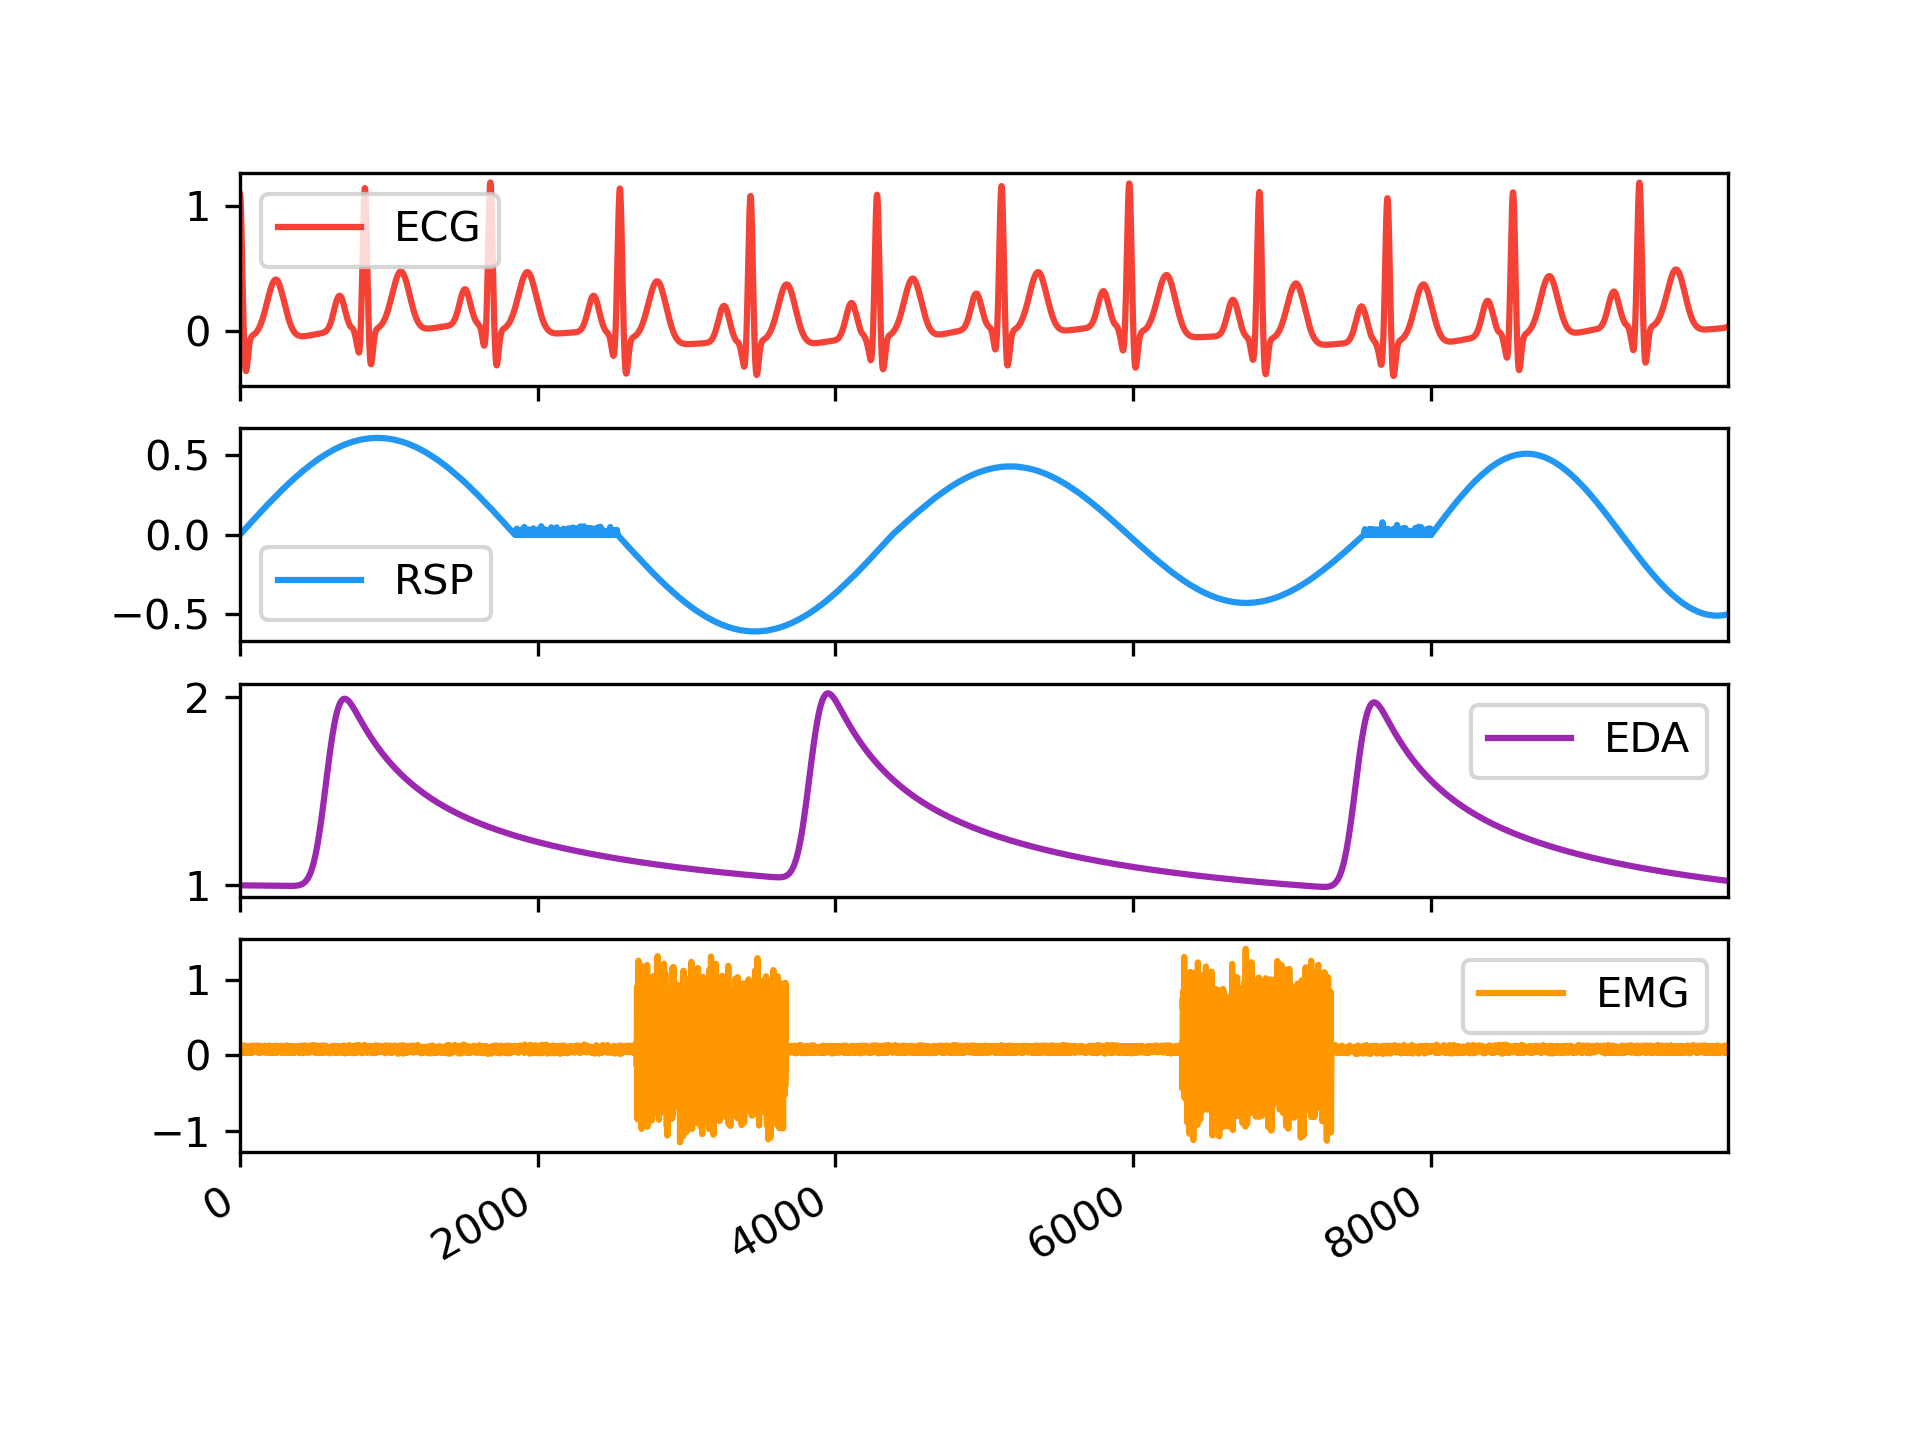
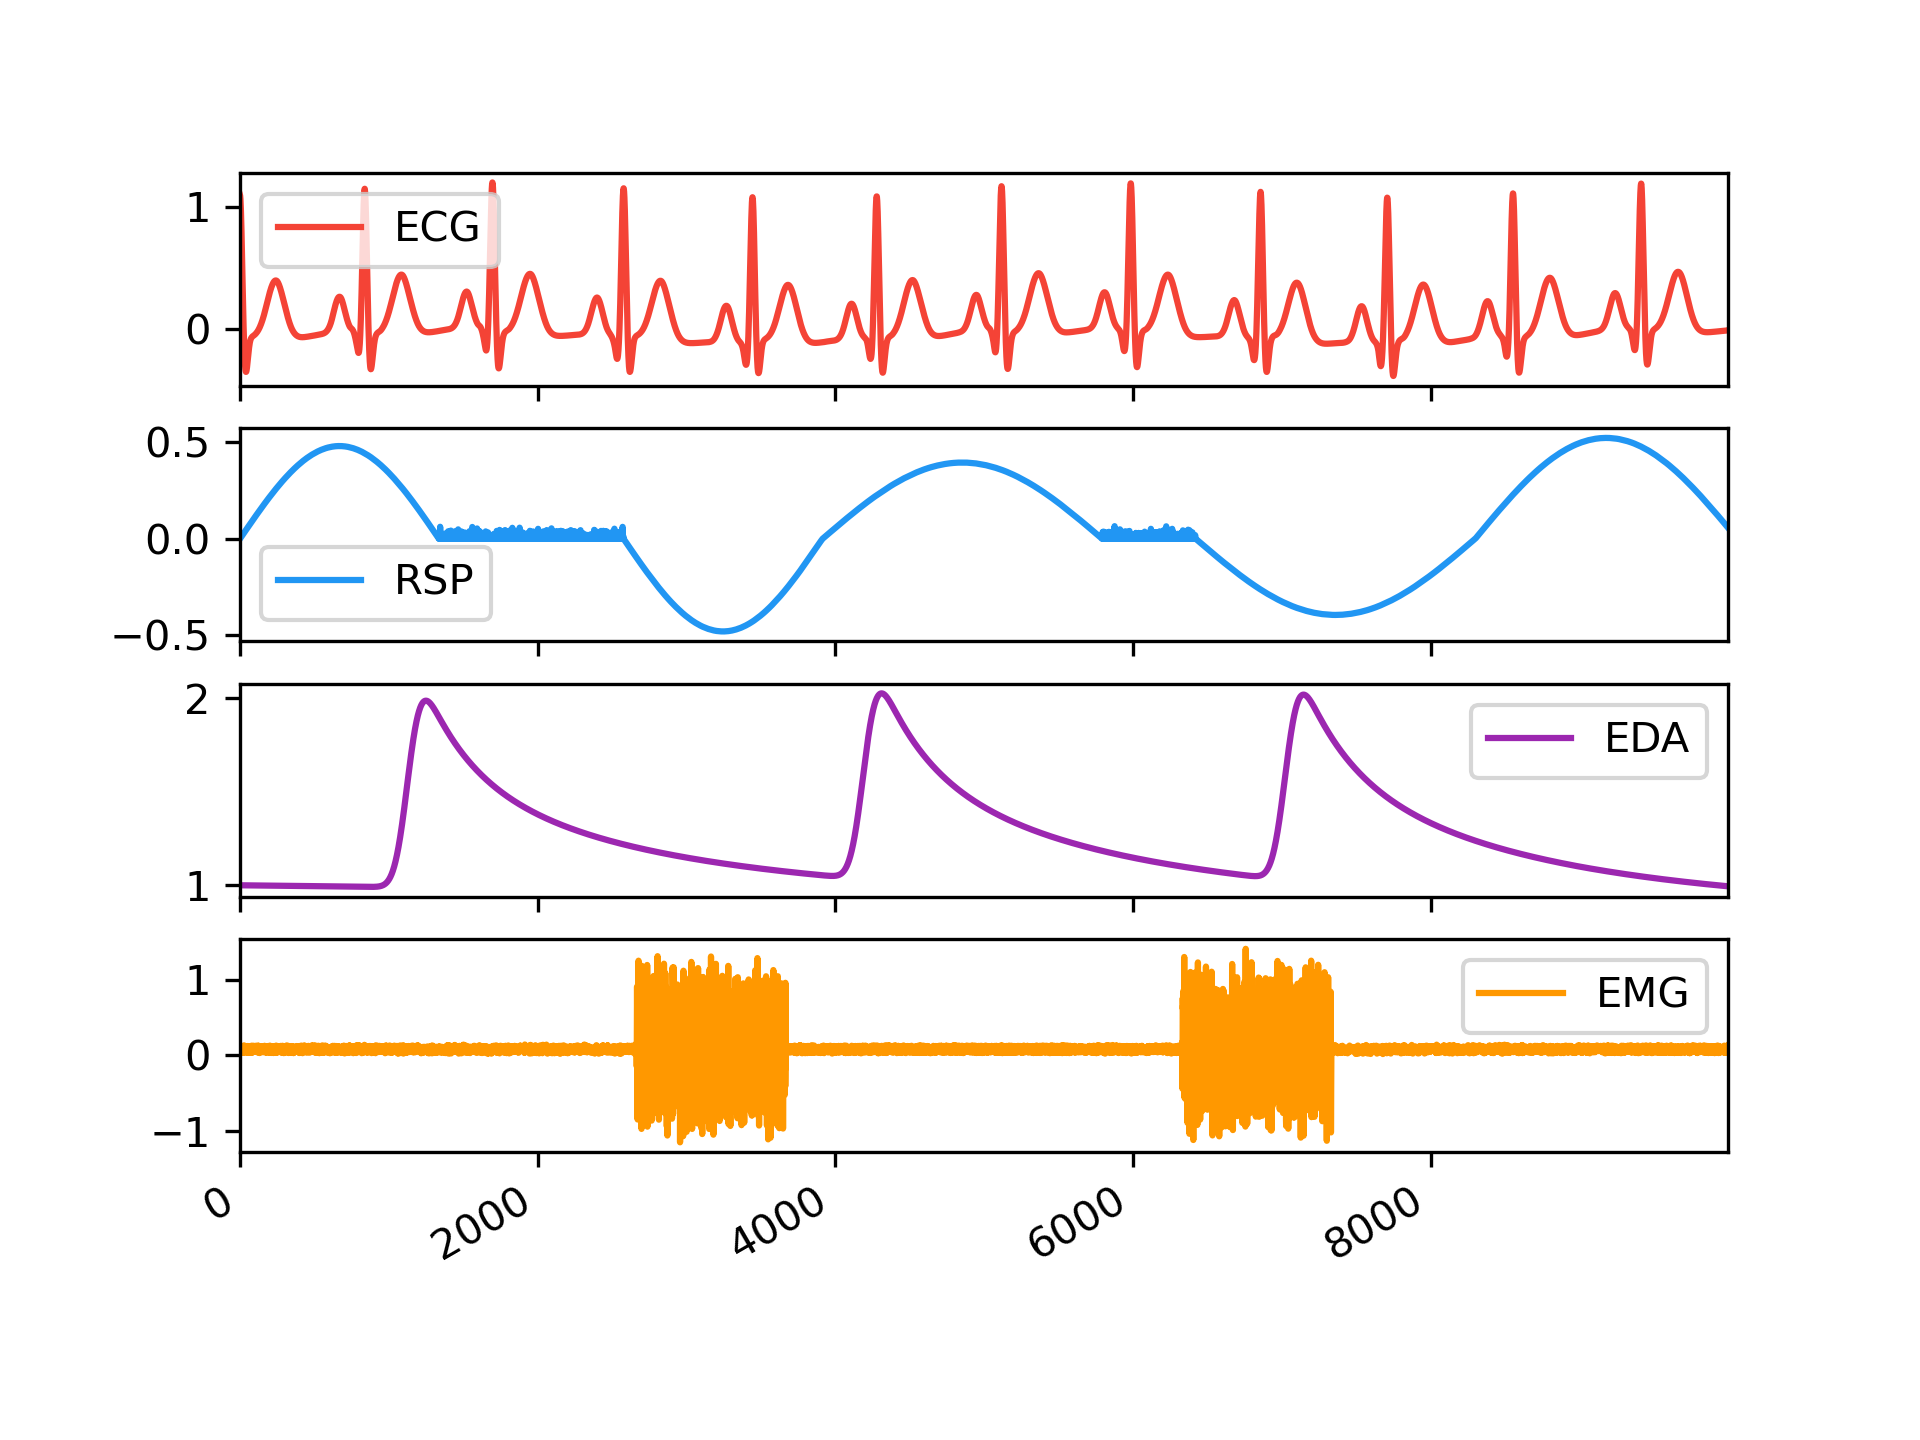
README

diff --git a/docs/img/README_examples.py b/docs/img/README_examples.py
@@ -30,6 +30,25 @@ plot = data.plot(subplots=True, layout=(4, 1), color=['#f44336', "#2196F3", "#9C
 plot[0][0].get_figure().savefig("README_simulation.png", dpi=300)
 
 
+
+# =============================================================================
+# Electrodermal Activity (EDA) processing
+# =============================================================================
+
+# Generate 30 seconds of EDA signal (recorded at 250 samples / second)
+eda = nk.eda_simulate(duration=30, sampling_rate=250, n_scr=5, drift=0.01)
+
+# Process it
+signals, info = nk.eda_process(eda, sampling_rate=250)
+
+# Visualise the processing
+nk.eda_plot(signals, sampling_rate=250)
+
+# Save it
+plot = nk.eda_plot(signals, sampling_rate=250)
+plot.savefig("README_eda.png", dpi=300)
+
+
 # =============================================================================
 # Cardiac activity (ECG) processing
 # =============================================================================
@@ -64,3 +83,4 @@ nk.rsp_plot(signals, sampling_rate=250)
 # Save it
 plot = nk.rsp_plot(signals, sampling_rate=250)
 plot.savefig("README_respiration.png", dpi=300)
+

diff --git a/neurokit2/signal/signal_findpeaks.py b/neurokit2/signal/signal_findpeaks.py
@@ -1,6 +1,5 @@
 # -*- coding: utf-8 -*-
 import numpy as np
-import pandas as pd
 
 import scipy.signal
 import scipy.misc
@@ -127,15 +126,11 @@ def _signal_findpeaks_base(peaks, signal, what="onset"):
     else:
         direction = "greater"
 
-    # Compute gradient (sort of derivative)
-    gradient = np.gradient(signal)
+    troughs, _ = scipy.signal.find_peaks(-1*signal)
 
-    # Find zero-crossings
-    zeros = signal_zerocrossings(gradient)
-
-    onsets = np.zeros(len(peaks), np.int)
+    onsets = np.zeros(len(peaks))
     for i, peak in enumerate(peaks):
-        onsets[i] = findclosest(peak, zeros, direction=direction, strictly=True)
+        onsets[i] = findclosest(peak, troughs, direction=direction, strictly=True)
 
     return onsets
 

diff --git a/neurokit2/misc/findclosest.py b/neurokit2/misc/findclosest.py
@@ -26,6 +26,16 @@ def findclosest(number, numbers, direction="both", strictly=False):
     >>> import neurokit2 as nk
     >>> nk.findclosest(1.8, [3, 5, 6, 1, 2])
     """
+    try:
+        closest = _findclosest(number, numbers, direction, strictly)
+    except ValueError:
+        closest = np.nan
+    return closest
+
+
+
+
+def _findclosest(number, numbers, direction="both", strictly=False):
     if direction == "both":
         closest = min(numbers, key=lambda x: np.abs(x-number))
     if direction == "smaller":

diff --git a/neurokit2/eda/eda_findpeaks.py b/neurokit2/eda/eda_findpeaks.py
@@ -93,7 +93,9 @@ def eda_findpeaks(eda_phasic, sampling_rate=1000, method="gamboa2008"):
     peaks_signal[info["SCR_Peaks"]] = 1
 
     onset_signal = np.zeros(len(eda_phasic))
-    onset_signal[info["SCR_Onset"]] = 1
+    onsets = info["SCR_Onset"]
+    onsets = onsets[~np.isnan(onsets)].astype(np.int)
+    onset_signal[onsets] = 1
 
     amplitude_signal = np.zeros(len(eda_phasic))
     amplitude_signal[info["SCR_Peaks"]] = info["SCR_Amplitude"]

diff --git a/neurokit2/eda/eda_clean.py b/neurokit2/eda/eda_clean.py
@@ -58,7 +58,7 @@ def eda_clean(eda_signal, sampling_rate=1000, method="neurokit"):
 def _eda_clean_neurokit(eda_signal, sampling_rate=1000):
 
     # Filtering
-    filtered = signal_filter(eda_signal, sampling_rate=sampling_rate, highcut=5, method="butterworth", order=4)
+    filtered = signal_filter(eda_signal, sampling_rate=sampling_rate, highcut=4, method="butterworth", order=4)
 
     return filtered
 

diff --git a/README.rst b/README.rst
@@ -89,13 +89,31 @@ Simulate physiological signals
 
 .. image:: https://raw.github.com/neuropsychology/NeuroKit/master/docs/img/README_simulation.png
 
+
+Electrodermal Activity (EDA) processing
+----------------------------------------
+
+.. code-block:: python
+
+    # Generate 30 seconds of EDA signal (recorded at 250 samples / second)
+    eda = nk.eda_simulate(duration=30, sampling_rate=250, n_scr=5, drift=0.01)
+
+    # Process it
+    signals, info = nk.eda_process(eda, sampling_rate=250)
+
+    # Visualise the processing
+    nk.eda_plot(signals, sampling_rate=250)
+
+.. image:: https://raw.github.com/neuropsychology/NeuroKit/master/docs/img/README_eda.png
+
+
 Cardiac activity (ECG) processing
 ---------------------------------
 
 .. code-block:: python
 
     # Generate 20 seconds of ECG signal (recorded at 250 samples / second)
-    ecg = nk.ecg_simulate(duration=20, sampling_rate=250, heart_rate=70, random_state=333)
+    ecg = nk.ecg_simulate(duration=20, sampling_rate=250, heart_rate=70)
 
     # Process it
     signals, info = nk.ecg_process(ecg, sampling_rate=250)
